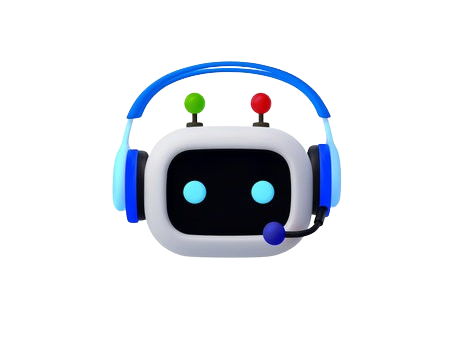
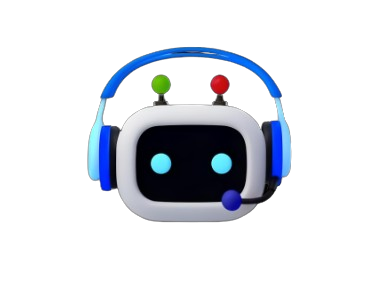
styles:change several images

Changed region(s): [[0.234, 0.1408, 0.7899, 0.7887], [0.3803, 0.2535, 0.6436, 0.4789], [0.5559, 0.2535, 0.6144, 0.3944]]

diff --git a/components/shared/Support.tsx b/components/shared/Support.tsx
@@ -64,12 +64,12 @@ const Support = () => {
           <Image
             src="/assets/images/codematerobotlightt.png"
             alt="Codemate robot"
-            width={170}
-            height={170}
+            width={190}
+            height={190}
             className="mb-3 ml-[-30px] block object-contain dark:hidden max-lg:ml-[-18px]"
           />
           <Image
-            src="/assets/images/codematerobotdark.png"
+            src="/assets/images/codematerobotdarkk.png"
             alt="Codemate robot"
             width={170}
             height={170}
